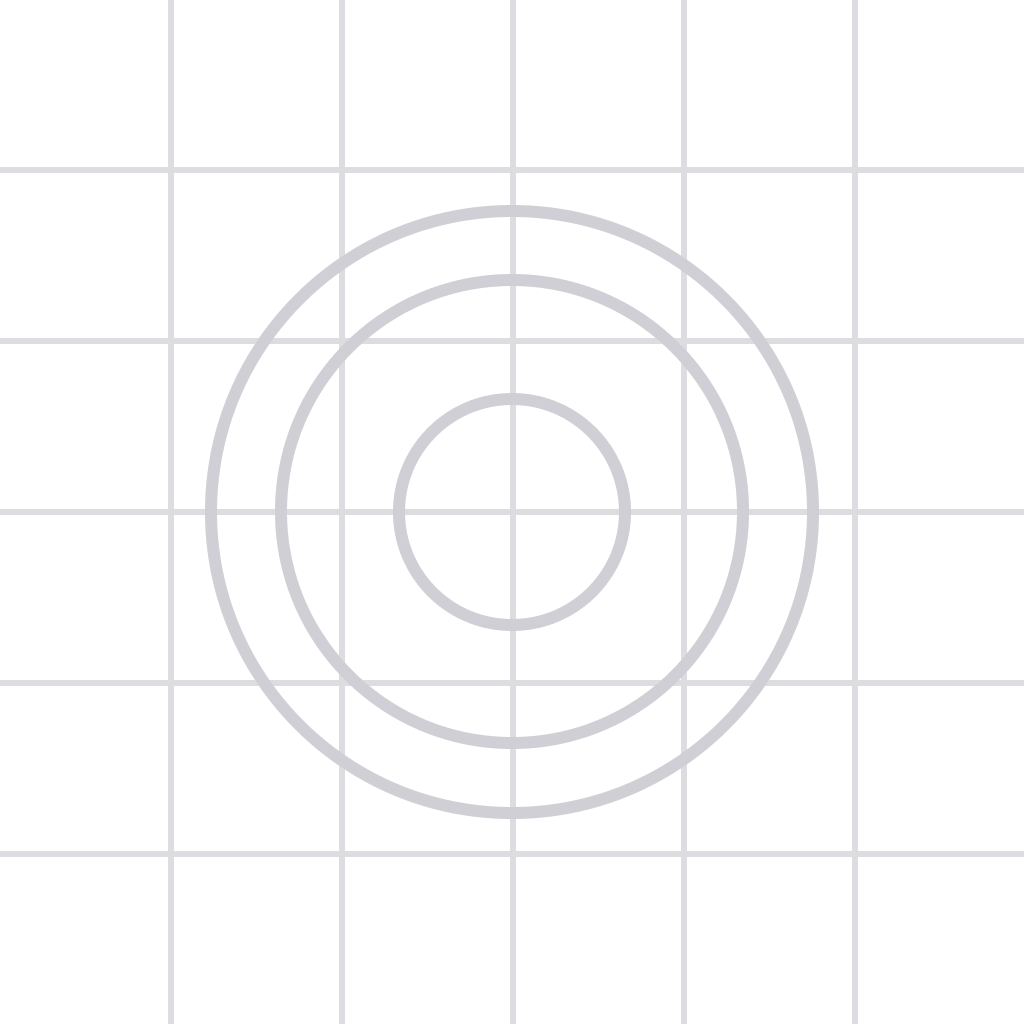
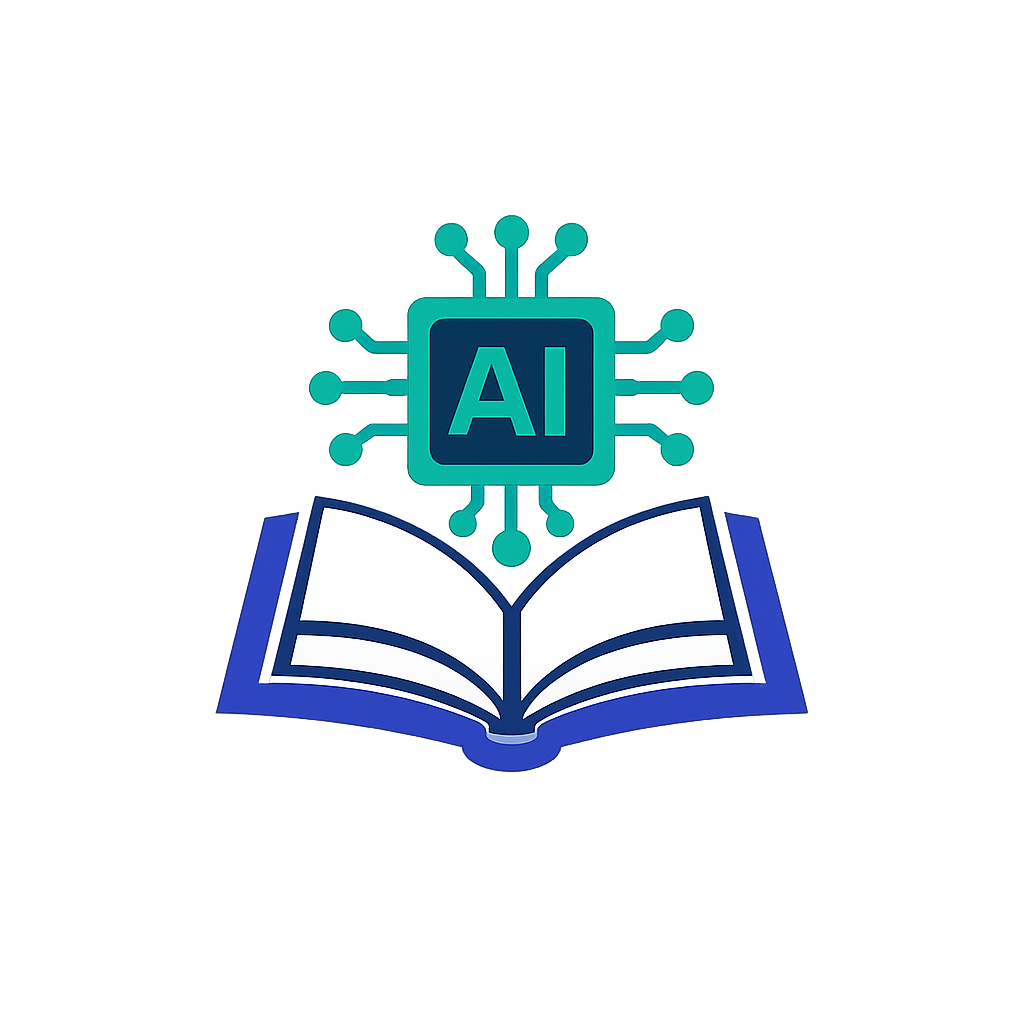
feat: actualizar estado de fases del proyecto y agregar iconos a la aplicación

Changed region(s): [[0.0, 0.0, 1.0, 1.0]]

diff --git a/src/aulaia-web/src/app/layout.tsx b/src/aulaia-web/src/app/layout.tsx
@@ -8,6 +8,7 @@ const geistSans = Geist({ variable: "--font-geist-sans", subsets: ["latin"] });
 export const metadata: Metadata = {
   title: "AulaIA — Asistente pedagógico MEP",
   description: "Planeamiento, asistencia y notas para docentes del MEP de Costa Rica.",
+  icons: { icon: '/icon.png' },
 };
 
 export default function RootLayout({ children }: { children: React.ReactNode }) {

diff --git a/ia/05_progress.md b/ia/05_progress.md
@@ -1,7 +1,7 @@
 # 05 — Progreso del Proyecto
 
 > **Última actualización:** 2026-05-05
-> **Fase activa:** Fase 1 — Core: Grupos, Estudiantes y Asistencia QR
+> **Fase activa:** Fase 2 — Planeamiento Didáctico con IA + Calendario
 
 ---
 
@@ -9,9 +9,11 @@
 
 **Fase 0 — Infraestructura Azure y setup del proyecto** (2026-05-05)
 
+**Fase 1 — Core: Grupos, Estudiantes y Asistencia QR** (2026-05-05)
+
 ---
 
-## 🔄 En progreso — Fase 1
+## 🔄 En progreso — Fase 2
 
 > **Decisiones de diseño confirmadas (2026-05-04):**
 > - Stack definido: .NET 10 + EF Core 10 + PostgreSQL + PowerSync + Auth0 + Azure AI Foundry GPT-5.5
@@ -79,3 +81,16 @@
 | F1 · App móvil: rewire GruposScreen + EstudiantesScreen → useQuery SQLite | ✅ |
 | F1 · App móvil: TomarListaScreen escribe en SQLite local (auto-sync) | ✅ |
 | F1 · App web: auth Auth0 + vistas grupos + descarga QRs PDF | ✅ |
+| F1 · Assets de la app: icon, adaptive-icon, splash-icon, favicon (Expo) + web icon (Next.js) | ✅ |
+
+### PC-06: Fase 2 — Planeamiento Didáctico con IA
+| Tarea | Estado |
+|-------|--------|
+| F2 · Programa de Artes Plásticas 7°, 8°, 9° estructurado en JSON | ⏳ |
+| F2 · Migración EF Core: LessonPlan, CalendarEvent | ⏳ |
+| F2 · Módulo Planeamiento: CRUD + servicio Azure AI Foundry | ⏳ |
+| F2 · Endpoint `/api/planeamiento/generar` — genera planeamiento con GPT-5.5 | ⏳ |
+| F2 · Calendario escolar MEP base + CRUD eventos no lectivos | ⏳ |
+| F2 · App web: formulario parámetros + vista planeamiento generado | ⏳ |
+| F2 · App web: descarga PDF/DOCX | ⏳ |
+| F2 · App móvil: vista planeamientos guardados (offline) | ⏳ |

diff --git a/ia/03_plan.md b/ia/03_plan.md
@@ -75,7 +75,7 @@ mep/
 
 ---
 
-## Fase 1 — Core: Grupos, Estudiantes y Asistencia QR 🔄 En progreso
+## Fase 1 — Core: Grupos, Estudiantes y Asistencia QR ✅ Completada (2026-05-05)
 
 **Objetivo:** MVP mínimo viable para que Adriana pueda usar la app en el aula desde el primer día. El módulo estrella (QR) y el núcleo del sistema funcionan completamente.
 
@@ -115,7 +115,7 @@ mep/
 
 ---
 
-## Fase 2 — Planeamiento Didáctico con IA + Calendario ⏳ Pendiente
+## Fase 2 — Planeamiento Didáctico con IA + Calendario 🔄 En progreso
 
 **Objetivo:** El módulo diferenciador #1 según retroalimentación de Adriana (2026-05-05). El docente genera un planeamiento completo, alineado al programa oficial del MEP y adaptado a su calendario institucional, en minutos.
 